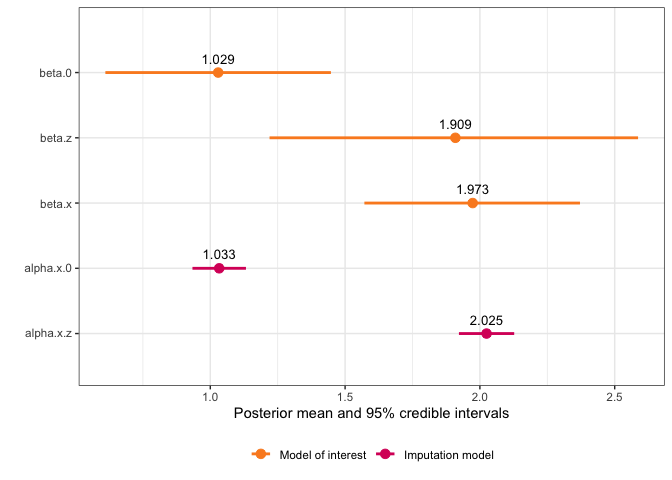
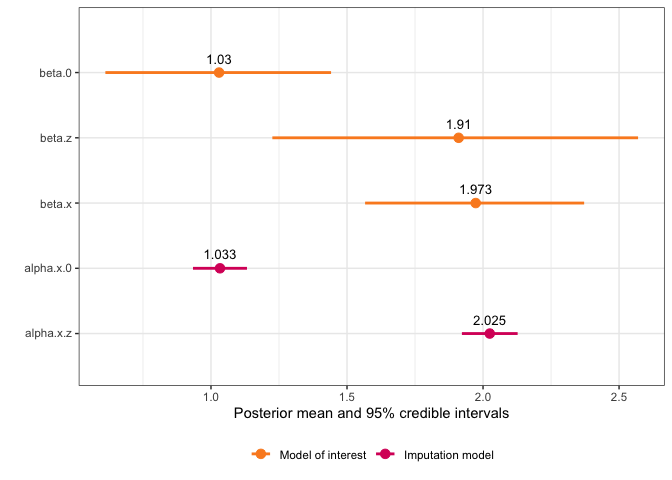
change vignette name

diff --git a/README.md b/README.md
@@ -61,8 +61,9 @@ Examples of how to use the package can be found in the vignettes.
 | [Survival model with repeated systolic blood pressure measurements](https://emmaskarstein.github.io/inlamemi/articles/nhanes_survival_model.html) | Weibull survival            | Classical, missing          | Repeated measurements of error prone variable                                                                                                                                                                                                                                        |
 | [Simulated examples (multiple examples)](https://emmaskarstein.github.io/inlamemi/articles/simulated_examples.html)                               | Gaussian, Binomial, Poisson | Berkson, classical, missing | Random effect(s) in the model of interest, interaction effects                                                                                                                                                                                                                       |
 | [Multiple variables with measurement error and missingness](https://emmaskarstein.github.io/inlamemi/articles/multiple_error_variables.html)      | Gaussian                    | Classical                   | Multiple mismeasured covariates                                                                                                                                                                                                                                                      |
+| [Modifying the default plot](https://emmaskarstein.github.io/inlamemi/articles/modifying_default_plot.html)                                       |                             |                             | Shows how to modify the plot produced by the `plot.inlamemi` function.                                                                                                                                                                                                               |
 | [How are the models structured?](https://emmaskarstein.github.io/inlamemi/articles/visualize_model_structure.html)                                |                             |                             | A deep dive into how the data is structured in order to correctly fit the model.                                                                                                                                                                                                     |
-| [How to not use `inlamemi`](https://emmaskarstein.github.io/inlamemi/articles/building_models_without_inlamemi.html)                              |                             |                             | An illustration of how the models can be fit without using `inlamemi`, in case you would like to extend the model in a way beyond what `inlamemi` will allow. This vignette can also be useful if you are familiar with R-INLA and want to understand how the models are structured. |
+| [How to avoid using `inlamemi`](https://emmaskarstein.github.io/inlamemi/articles/building_models_without_inlamemi.html)                          |                             |                             | An illustration of how the models can be fit without using `inlamemi`, in case you would like to extend the model in a way beyond what `inlamemi` will allow. This vignette can also be useful if you are familiar with R-INLA and want to understand how the models are structured. |
 
 ## Quick guide: How can I use this package?
 
@@ -154,29 +155,29 @@ summary(simple_model)
 #> 
 #> Fixed effects for model of interest: 
 #>            mean        sd 0.025quant 0.5quant 0.975quant     mode
-#> beta.0 1.029230 0.2199524  0.6108564 1.026969   1.447384 1.025073
-#> beta.z 1.909103 0.3900812  1.2197600 1.901527   2.586637 1.911069
+#> beta.0 1.029734 0.2192649   0.611786 1.027337   1.441360 1.023829
+#> beta.z 1.910320 0.3888428   1.225565 1.899260   2.569838 1.909285
 #> 
 #> Coefficient for variable with measurement error and/or missingness: 
 #>            mean        sd 0.025quant 0.5quant 0.975quant     mode
-#> beta.x 1.973203 0.2030897   1.571571 1.973825   2.371208 1.976411
+#> beta.x 1.973047 0.2044895   1.566493 1.974404   2.371636 1.980101
 #> 
 #> Fixed effects for imputation model: 
 #>               mean         sd 0.025quant 0.5quant 0.975quant     mode
-#> alpha.x.0 1.033091 0.05058853  0.9338437 1.033100    1.13229 1.033100
-#> alpha.x.z 2.024682 0.05225147  1.9222503 2.024663    2.12722 2.024663
+#> alpha.x.0 1.033082 0.05058036  0.9338513 1.033090   1.132266 1.033090
+#> alpha.x.z 2.024703 0.05224236  1.9222875 2.024685   2.127221 2.024685
 #> 
 #> Model hyperparameters (apart from beta.x): 
-#>                                      mean        sd 0.025quant 0.5quant
-#> Precision for model of interest 1.1240935 0.3559116  0.5677369 1.076509
-#> Precision for x berkson model   1.1247575 0.3507436  0.5874788 1.074393
-#> Precision for x classical model 0.9266052 0.1097382  0.7295794 0.920113
-#> Precision for x imp model       0.9773413 0.1260382  0.7524216 0.969432
+#>                                      mean        sd 0.025quant  0.5quant
+#> Precision for model of interest 1.1284762 0.3651824  0.5643224 1.0775830
+#> Precision for x berkson model   1.1270935 0.3502996  0.5871622 1.0778489
+#> Precision for x classical model 0.9274713 0.1107587  0.7291709 0.9207291
+#> Precision for x imp model       0.9771797 0.1269574  0.7504628 0.9692680
 #>                                 0.975quant      mode
-#> Precision for model of interest   1.953670 0.9893504
-#> Precision for x berkson model     1.954002 0.9806116
-#> Precision for x classical model   1.161028 0.9071415
-#> Precision for x imp model         1.247810 0.9540123
+#> Precision for model of interest   1.985783 0.9838628
+#> Precision for x berkson model     1.952024 0.9863724
+#> Precision for x classical model   1.164627 0.9070096
+#> Precision for x imp model         1.249446 0.9540553
 ```
 
 And we can use the default plot function to see a plot of the fixed
